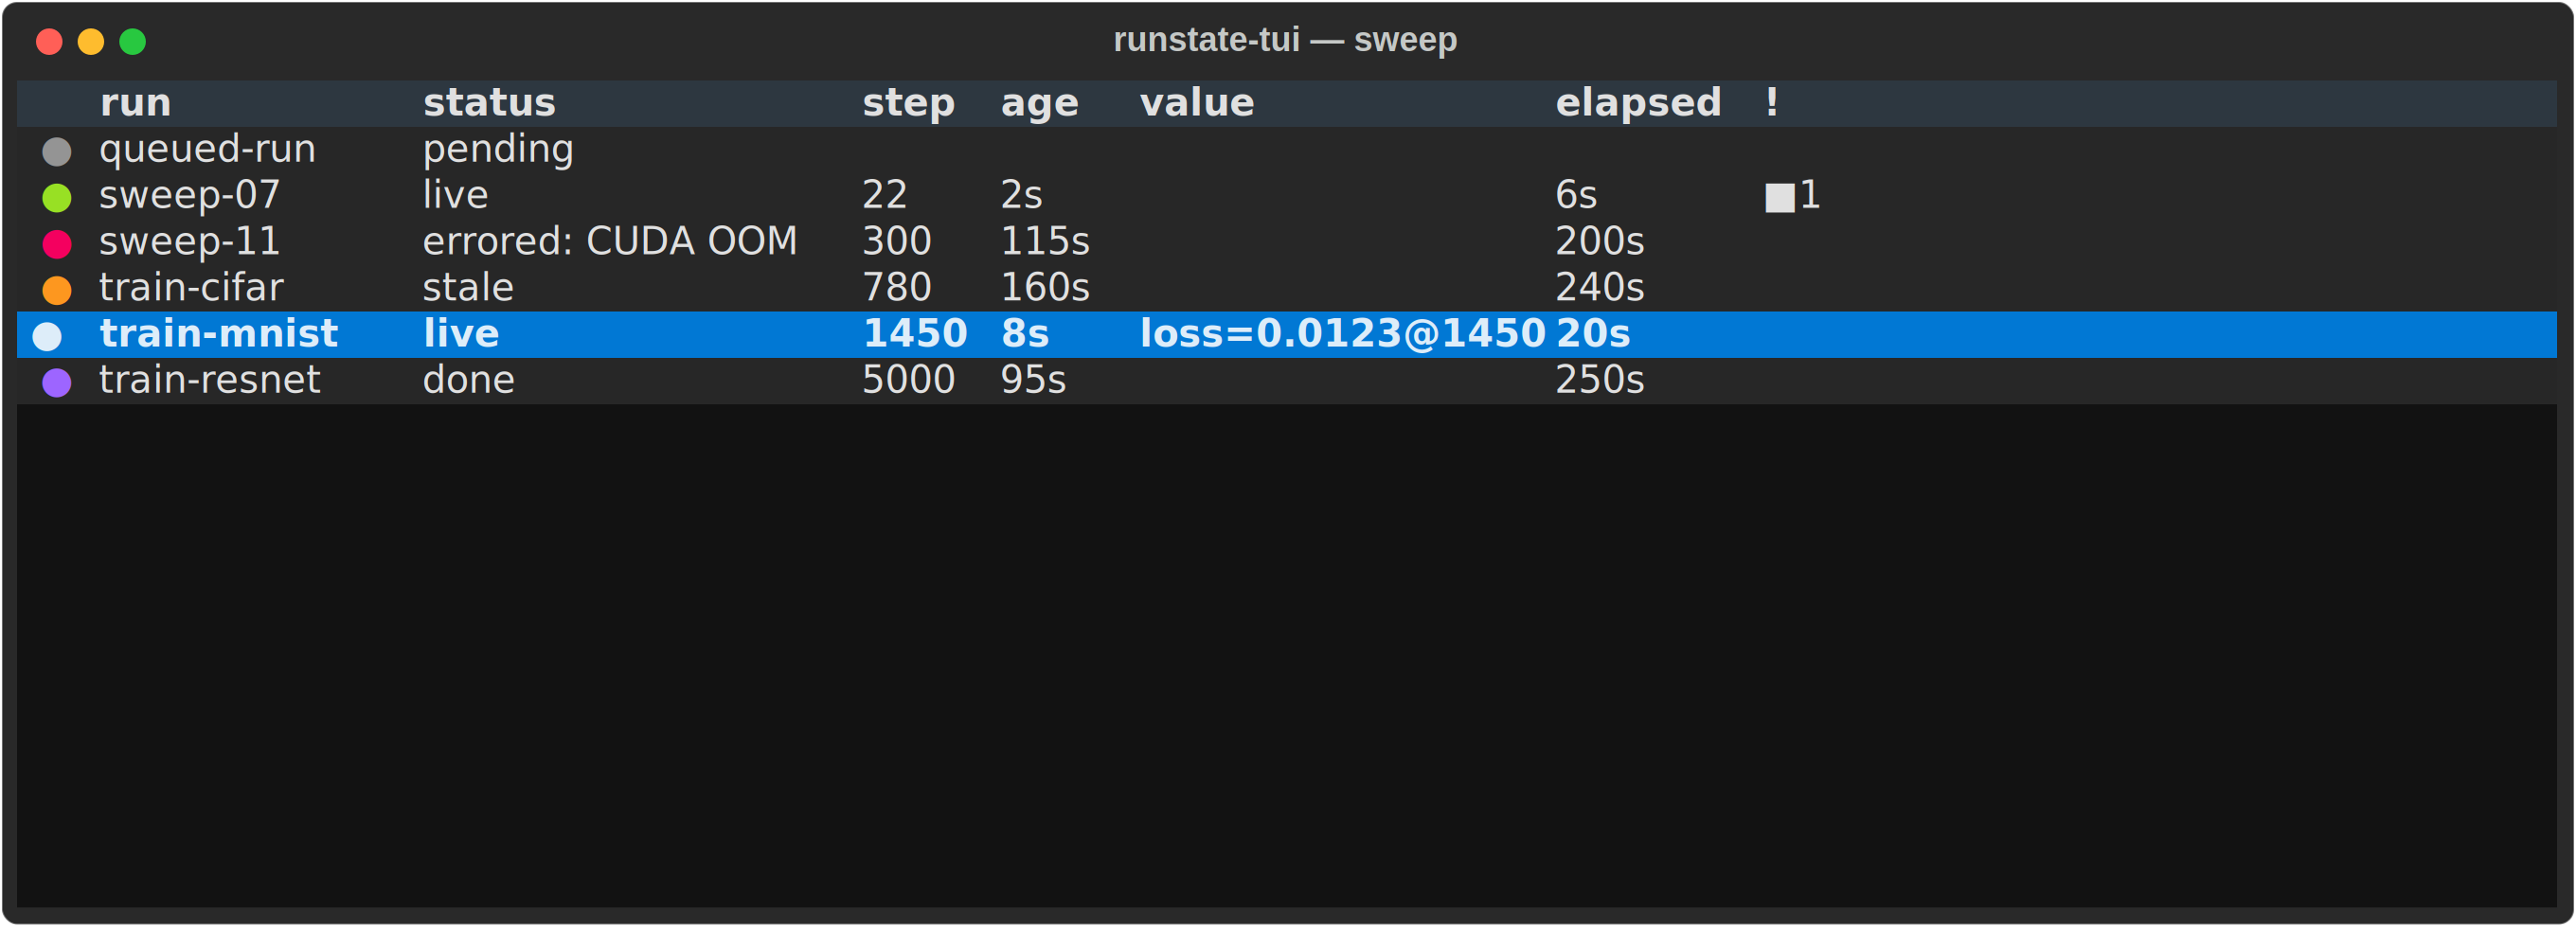
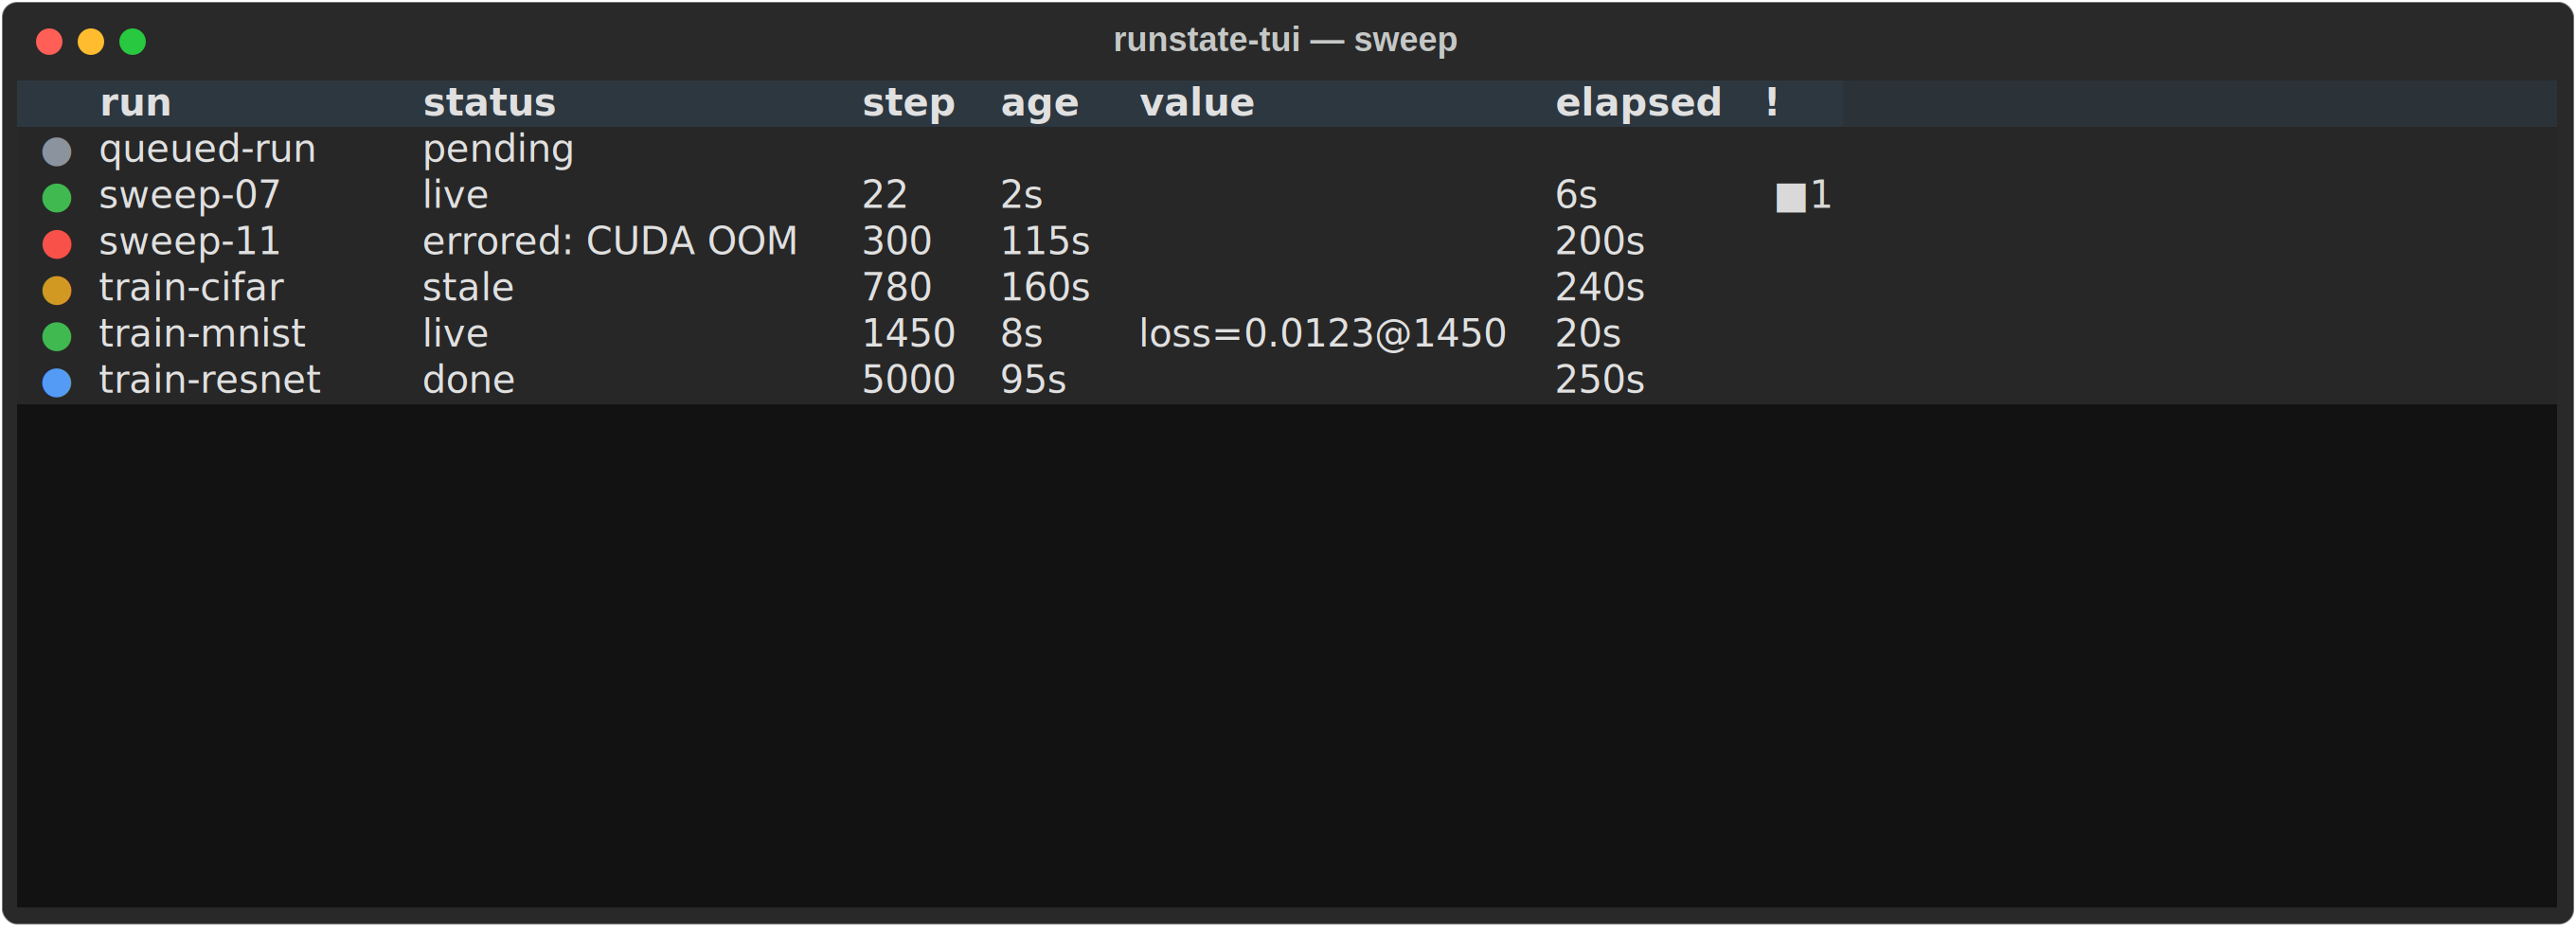
refine(ui): truecolor status palette, clean !-marker split, cursor-off hero
status_color now returns truecolor HEX instead of Rich/ANSI color names, so the
traffic-light dot renders the intended palette instead of being bent by a
terminal's ANSI theme (blue -> purple, yellow -> amber on some themes).

_marker now returns a severity-colored rich.text.Text keyed on issue severity +
stop count ONLY, not row.severity -- the dot already carries status color, so
`!` stays on its own orthogonal axis. A corrupt row still shows a red ⚠⚠ (its
Issue is HIGH); a bare unreadable/missing row (no Issue) now shows no marker at
all instead of restating the dot. The stop badge (■N) is forced to an explicit
neutral style so it never inherits a preceding ⚠'s color.

Regenerated docs/img/table.{png,svg} with the showcase table's cursor off
(cursor_type="none") so every row's true dot color is visible, unmasked by
cursor-highlight styling -- the completed "done" dot is now clearly blue.

Claude-Session: https://claude.ai/code/session_01EZVuQQF3vdynEXvyDApYKp

Changed region(s): [[0.0, 0.3067, 1.0, 0.4294], [0.0, 0.184, 0.0312, 0.2761], [0.6875, 0.184, 0.7188, 0.2454]]

diff --git a/tests/test_multirun.py b/tests/test_multirun.py
@@ -2,6 +2,7 @@ import asyncio
 import threading
 import time
 
+from rich.text import Span
 from runstate import open_channel
 from textual.widgets import DataTable, Static
 
@@ -360,7 +361,59 @@ async def _table_has_a_colored_status_dot(tmp_path):
         await pilot.pause()
         t = app.query_one("#runs", DataTable)
         cell = t.get_cell(ref_key(ref), "dot")  # the stored Rich Text, unconverted
-        assert "●" in cell.plain and cell.style == "green"
+        assert "●" in cell.plain and cell.style == "#3fb950"
+
+
+def test_marker_corrupt_row_is_double_warning_colored_red():
+    # The clean split: `_marker` keys on ISSUE severity + stop count ONLY, never
+    # row.severity/status severity -- the `dot` cell already carries status color.
+    # `_corrupt` plants a HIGH Issue, so a corrupt row still gets the loud ⚠⚠, colored
+    # to match the dot's red.
+    from runstate_tui.multirun import _marker
+    from runstate_tui.table import _corrupt
+
+    marker = _marker(_corrupt(seq=1))
+    assert marker.plain == "⚠⚠"
+    assert marker.style == "#f85149"
+
+
+def test_marker_unreadable_row_is_empty_the_dot_carries_it_alone():
+    # Pins the clean split's other half: `_bare` rows (missing/unreadable) carry
+    # issues=() -- no Issue at all -- so under the new issue-severity-only keying they
+    # get NO `!` marker. Before the split, row.severity (which folds in STATUS
+    # severity too) would have shown ⚠⚠ here, restating what the red dot already says.
+    from runstate_tui.multirun import _marker
+    from runstate_tui.table import _bare
+    from runstate_tui.types import Status
+
+    marker = _marker(_bare(Status.unreadable()))
+    assert marker.plain == ""
+
+
+def test_marker_undischarged_stop_alone_renders_neutral():
+    # A stop with no issue: the ■N badge must NOT inherit any severity color -- it is
+    # an orthogonal axis, always neutral/default-colored regardless of what precedes it.
+    from runstate.channel import Envelope
+
+    from runstate_tui.multirun import _marker
+    from runstate_tui.types import Row, Status
+
+    stop = Envelope(seq=5, topic="control.stop", name=None, request_id="webui:s", body={})
+    row = Row(
+        status=Status.live(),
+        frontier=None,
+        freshness=None,
+        value=None,
+        elapsed=None,
+        episode=None,
+        undischarged_stops=(stop,),
+        live_demand=(),
+        issues=(),
+    )
+    marker = _marker(row)
+    assert marker.plain == "■1"
+    assert marker.style == ""  # no base color
+    assert marker.spans == [Span(0, len("■1"), "default")]  # explicit neutral override
 
 
 def test_enter_opens_drilldown_for_selected_run_and_escape_returns(tmp_path):

diff --git a/runstate_tui/format.py b/runstate_tui/format.py
@@ -6,31 +6,33 @@ from runstate.observables import Outcome
 from .types import Row, Status, StatusKind
 
 _STATUS_COLORS = {
-    StatusKind.LIVE: "green",
-    StatusKind.STALE: "yellow",
-    StatusKind.PENDING: "grey58",
-    StatusKind.MISSING: "grey58",
-    StatusKind.CORRUPT: "red",
-    StatusKind.UNREADABLE: "red",
-    StatusKind.ERROR: "red",
-    StatusKind.CONFLICTED: "yellow",
+    StatusKind.LIVE: "#3fb950",
+    StatusKind.STALE: "#d29922",
+    StatusKind.PENDING: "#8b949e",
+    StatusKind.MISSING: "#8b949e",
+    StatusKind.CORRUPT: "#f85149",
+    StatusKind.UNREADABLE: "#f85149",
+    StatusKind.ERROR: "#f85149",
+    StatusKind.CONFLICTED: "#d29922",
 }
 _OUTCOME_COLORS = {
-    Outcome.COMPLETED: "blue",
-    Outcome.PREEMPTED: "yellow",
-    Outcome.ERRORED: "red",
-    Outcome.KILLED: "red",
-    Outcome.PRESUMED_DEAD: "red",
+    Outcome.COMPLETED: "#539bf5",
+    Outcome.PREEMPTED: "#d29922",
+    Outcome.ERRORED: "#f85149",
+    Outcome.KILLED: "#f85149",
+    Outcome.PRESUMED_DEAD: "#f85149",
 }
 
 
 def status_color(status: Status) -> str:
-    """A Rich color name for a status — the traffic-light dot. Redundant with the
+    """A truecolor HEX for a status — the traffic-light dot. Redundant with the
     text label (never the sole signal). Keyed on StatusKind, refined by terminal
-    Outcome."""
+    Outcome. HEX (not Rich/ANSI color names) so the palette renders faithfully
+    instead of being bent by a terminal's ANSI theme (e.g. `blue` -> purple,
+    `yellow` -> amber on some themes)."""
     if status.kind is StatusKind.TERMINAL and status.outcome is not None:
-        return _OUTCOME_COLORS.get(status.outcome, "blue")
-    return _STATUS_COLORS.get(status.kind, "grey58")
+        return _OUTCOME_COLORS.get(status.outcome, "#8b949e")
+    return _STATUS_COLORS.get(status.kind, "#8b949e")
 
 
 def format_row(row: Row) -> str:

diff --git a/runstate_tui/multirun.py b/runstate_tui/multirun.py
@@ -24,18 +24,32 @@ _COLUMNS = ("dot", "run", "status", "step", "age", "value", "elapsed", "!")
 _DRAIN_TIMEOUT = 5.0
 
 
-def _marker(row: Row) -> str:
+def _marker(row: Row) -> Text:
     """A compact per-row severity glyph (keeps the table below the ISA-18.2 flood line).
-    row.severity already folds status + issues (CORRUPT/UNREADABLE -> HIGH)."""
-    stops = f"■{len(row.undischarged_stops)}" if row.undischarged_stops else ""
-    if row.severity >= Severity.HIGH:
-        return f"⚠⚠{stops}"
-    if row.severity >= Severity.MEDIUM:
-        return f"⚠{stops}"
-    return stops
+    Keyed on ISSUE severity + stop count ONLY -- deliberately NOT row.severity (which
+    also folds in status severity). The leading `dot` cell already carries the status
+    color, so `!` stays on its own orthogonal axis: a `corrupt` row still shows `⚠⚠`
+    (its Issue is HIGH), but a bare `unreadable`/`missing` row (issues=()) shows NO
+    marker at all -- its red/grey dot + status text alone carry that signal, undiluted
+    by a `!` that would otherwise just restate the dot."""
+    issue_sev = max((i.severity for i in row.issues), default=Severity.OK)
+    if issue_sev >= Severity.HIGH:
+        out = Text("⚠⚠", style="#f85149")
+    elif issue_sev >= Severity.MEDIUM:
+        out = Text("⚠", style="#d29922")
+    else:
+        out = Text("")
+    if row.undischarged_stops:
+        # explicit style="default" -- NOT the no-style form -- because Text.append
+        # without a style inherits the base Text's style (verified empirically), which
+        # would silently paint "■N" red/amber whenever it follows a colored ⚠ segment.
+        # An explicit "default" is what actually decouples the stop count from the
+        # issue-severity color.
+        out.append(f"■{len(row.undischarged_stops)}", style="default")
+    return out
 
 
-def _cells(ref: RunRef, row: Row) -> tuple[Text, str, str, str, str, str, str, str]:
+def _cells(ref: RunRef, row: Row) -> tuple[Text, str, str, str, str, str, str, Text]:
     """The 8 column cells — same field semantics as format_row, one field per column.
     The leading `dot` cell is a traffic-light ● redundant with the `status` text cell
     (never the sole signal)."""

diff --git a/tests/test_format.py b/tests/test_format.py
@@ -167,12 +167,12 @@ def test_format_detail_shows_terminal_error_diagnostic():
 def test_status_color_maps_kinds_and_outcomes():
     from runstate_tui.format import status_color
 
-    assert status_color(Status.live()) == "green"
-    assert status_color(Status.stale()) == "yellow"
-    assert status_color(Status.pending()) == "grey58"
-    assert status_color(Status.missing()) == "grey58"
-    assert status_color(Status.corrupt()) == "red"
-    assert status_color(Status.unreadable()) == "red"
-    assert status_color(Status.error()) == "red"
-    assert status_color(Status.terminal(Outcome.COMPLETED)) == "blue"
-    assert status_color(Status.terminal(Outcome.ERRORED)) == "red"
+    assert status_color(Status.live()) == "#3fb950"
+    assert status_color(Status.stale()) == "#d29922"
+    assert status_color(Status.pending()) == "#8b949e"
+    assert status_color(Status.missing()) == "#8b949e"
+    assert status_color(Status.corrupt()) == "#f85149"
+    assert status_color(Status.unreadable()) == "#f85149"
+    assert status_color(Status.error()) == "#f85149"
+    assert status_color(Status.terminal(Outcome.COMPLETED)) == "#539bf5"
+    assert status_color(Status.terminal(Outcome.ERRORED)) == "#f85149"

diff --git a/scripts/showcase.py b/scripts/showcase.py
@@ -13,7 +13,7 @@ from runstate import open_channel
 
 from runstate_tui.env import Env
 from runstate_tui.multirun import MultiRunApp
-from runstate_tui.resolver import RunRef, explicit_resolver, ref_key
+from runstate_tui.resolver import RunRef, explicit_resolver
 
 NOW = 300.0
 
@@ -107,9 +107,9 @@ async def scene_table(out_dir: Path) -> Path:
         explicit_resolver(refs), Env(clock=lambda: NOW, objective="loss"), tick_interval=999
     )
 
-    async def before(pilot: object) -> None:  # park the cursor on a healthy (live) row
+    async def before(pilot: object) -> None:  # cursor OFF -- every row's dot shows undimmed
         t = pilot.app.query_one("#runs")  # type: ignore[attr-defined]
-        t.move_cursor(row=t.get_row_index(ref_key(refs[0])))
+        t.cursor_type = "none"
 
     return await capture(app, out_dir / "table.png", before=before, title="runstate-tui — sweep")
 